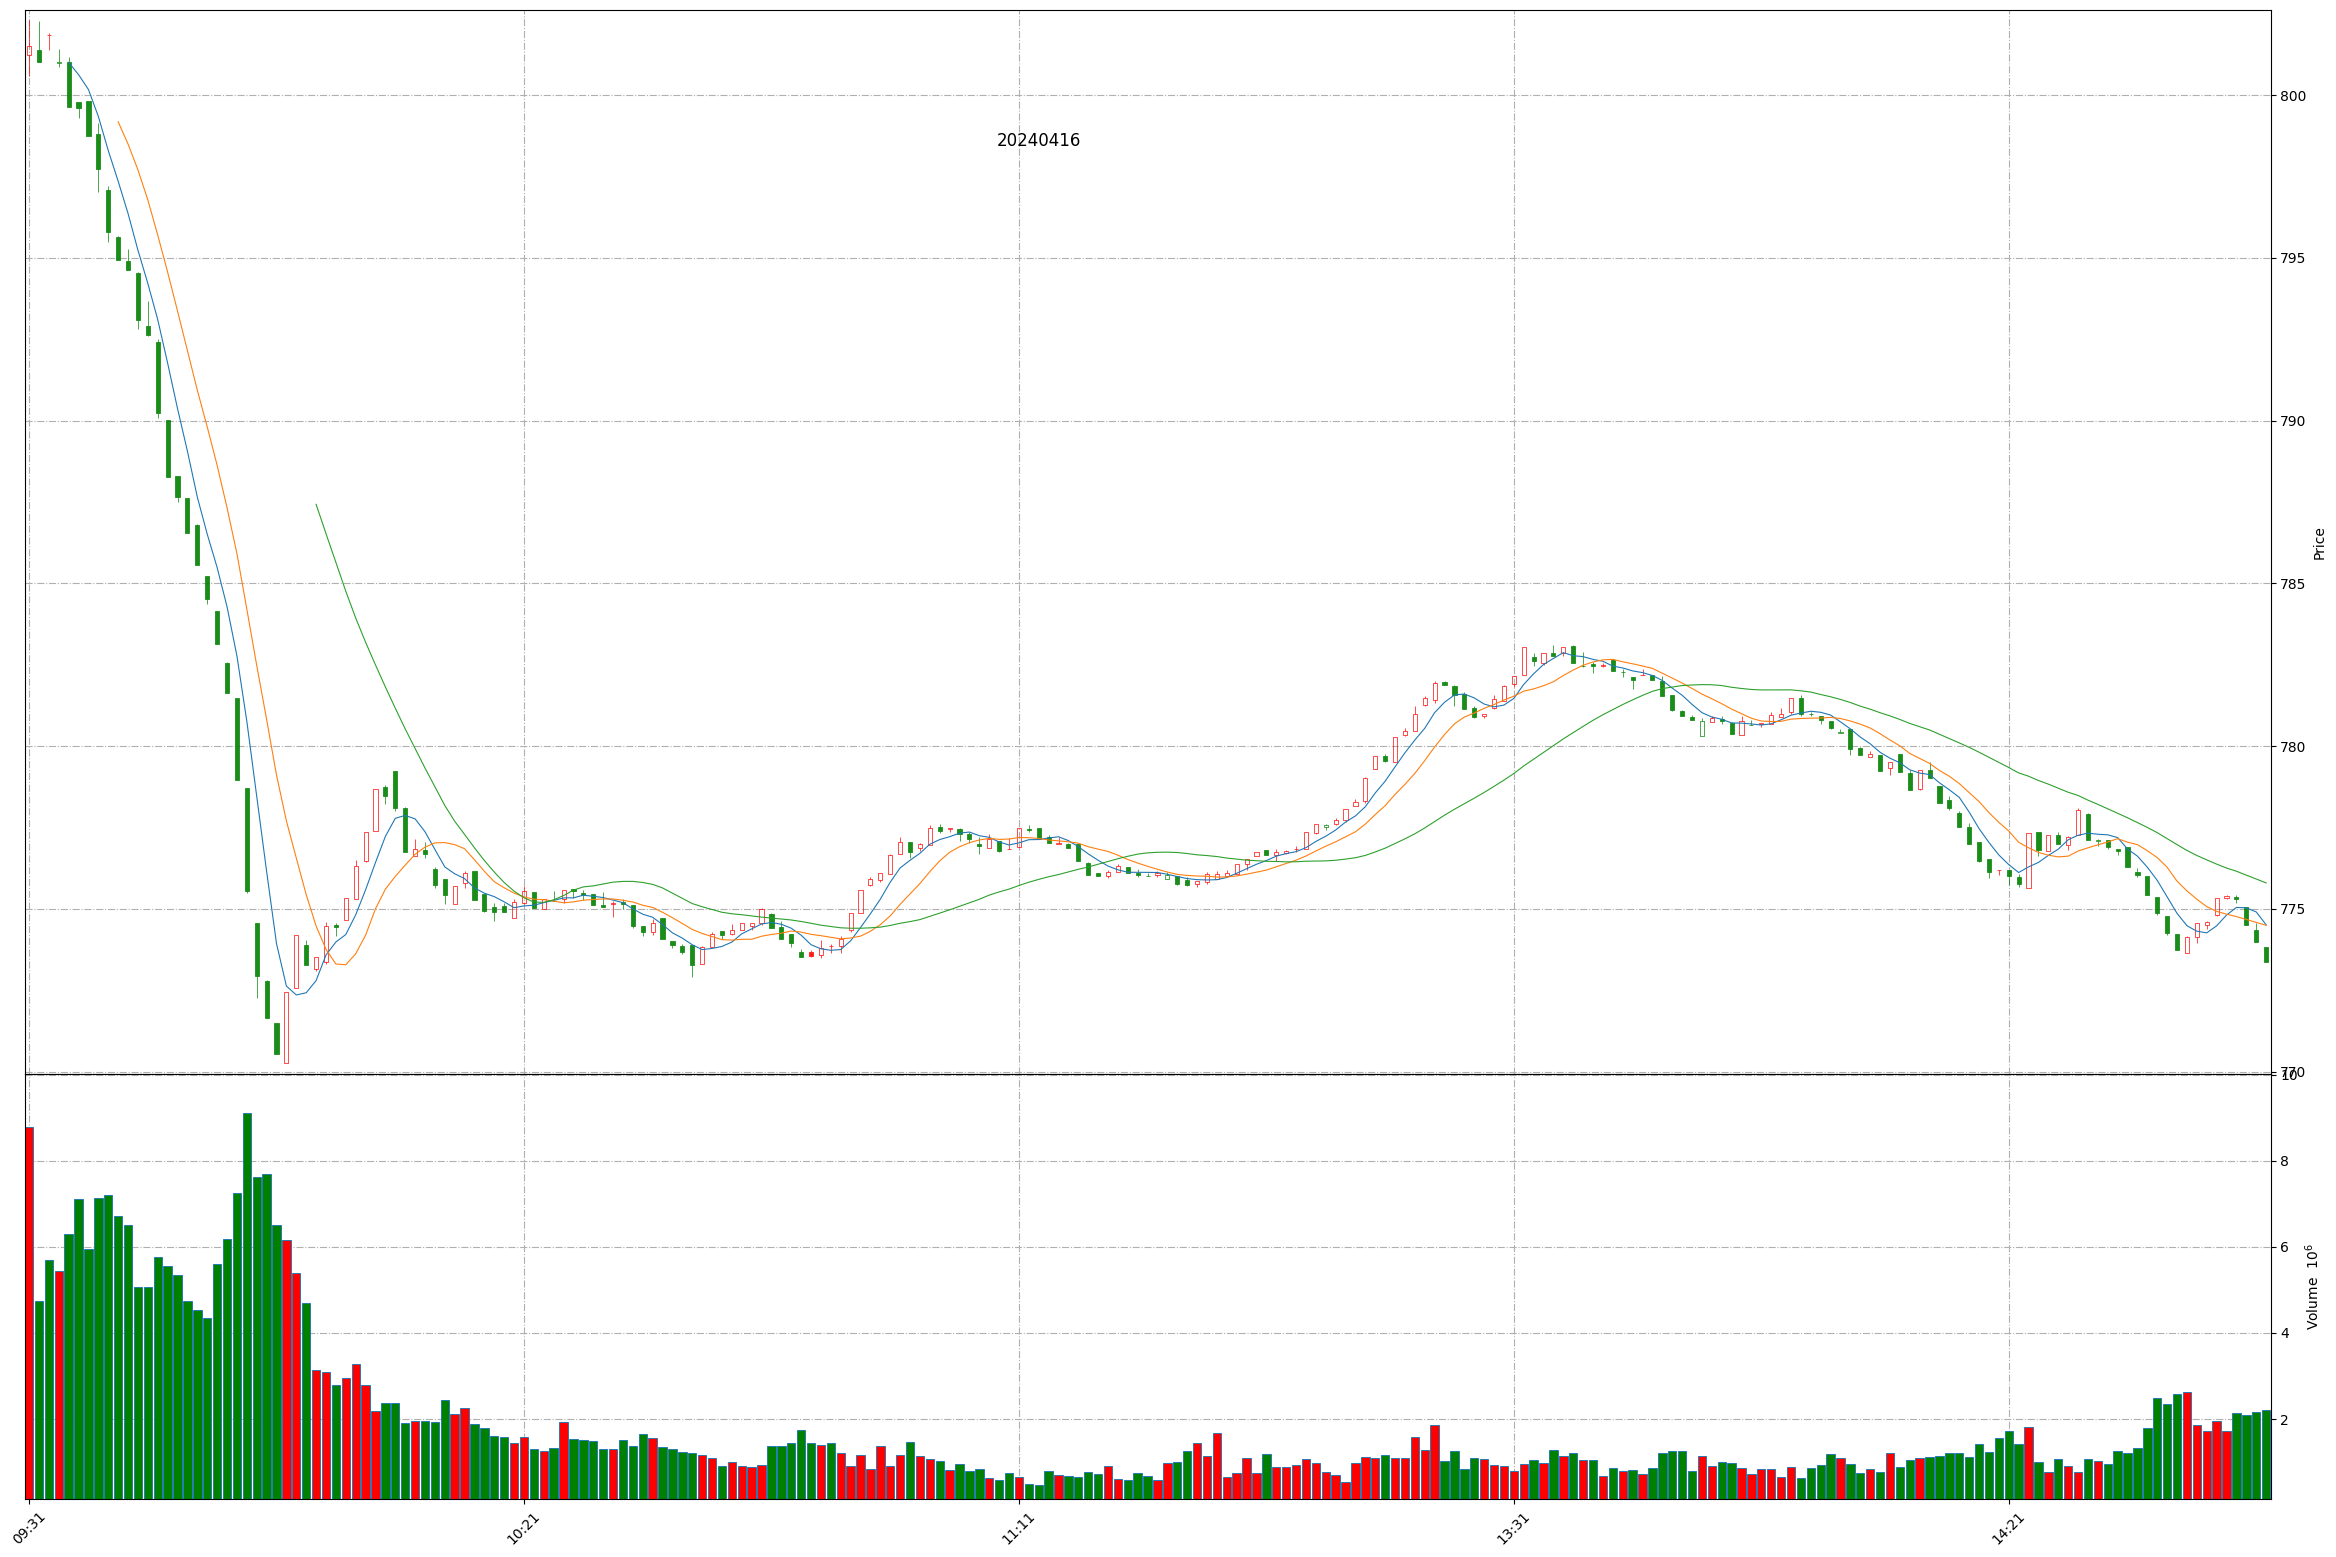
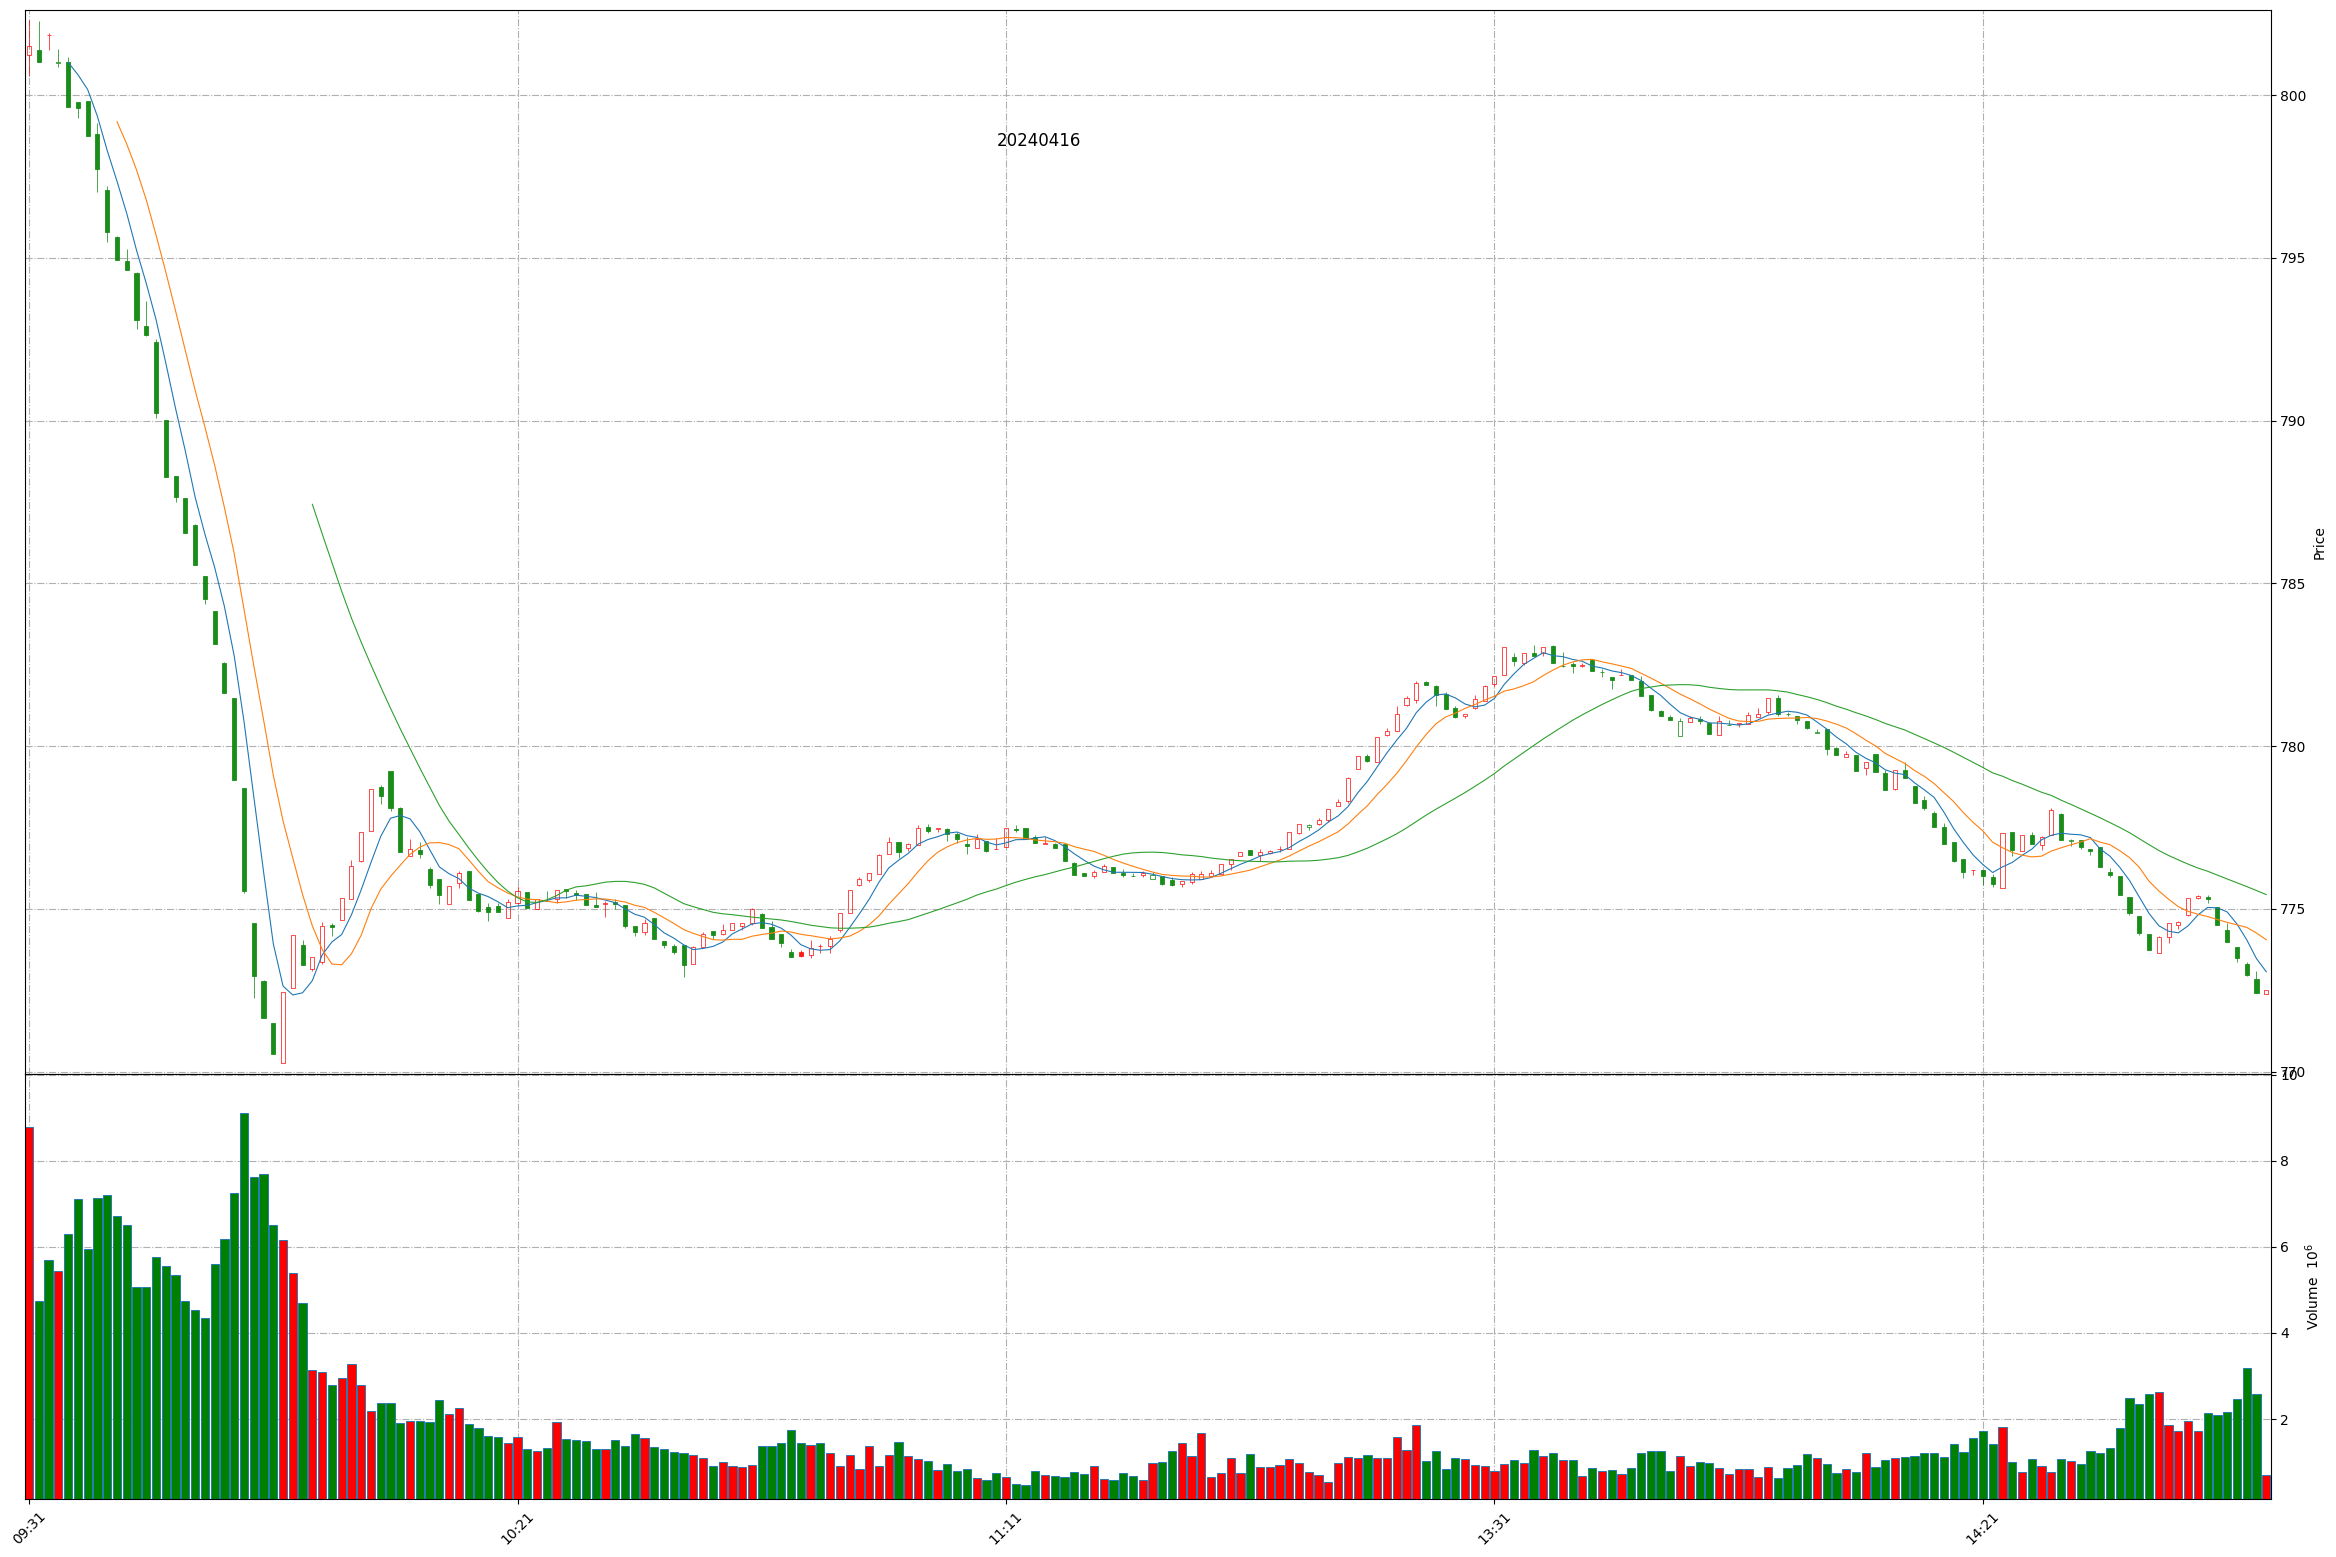
Github action update at 2024-04-16 14:49:17.

diff --git a/README.md b/README.md
@@ -1,11 +1,11 @@
 
 # Daily-A-share-market-quotes 每日 A 股指数（5min 更新）- 20240416
 
-### 上证指数 20240416 14:47
+### 上证指数 20240416 14:49
 ![](./fig/2024/4/20240416-sh000001.png)
 
-### 深证成指 20240416 14:47
+### 深证成指 20240416 14:49
 ![](./fig/2024/4/20240416-sz399001.png)
 
-### 北证50 20240416 14:47
+### 北证50 20240416 14:49
 ![](./fig/2024/4/20240416-bj899050.png)
